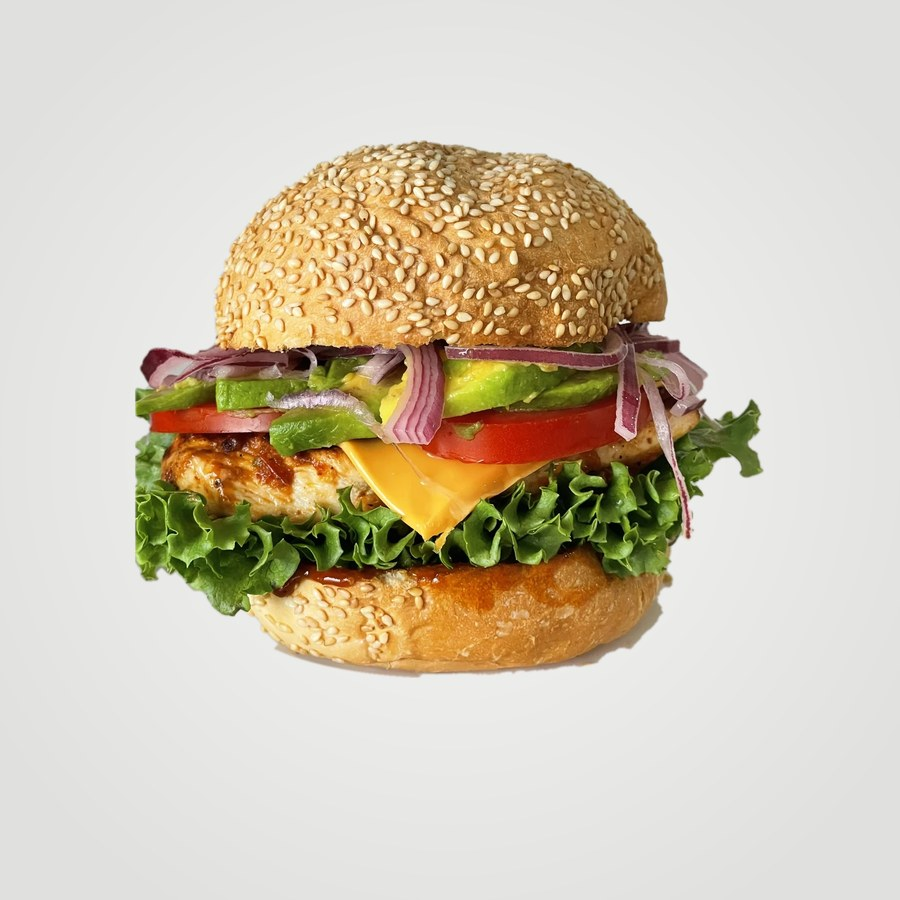
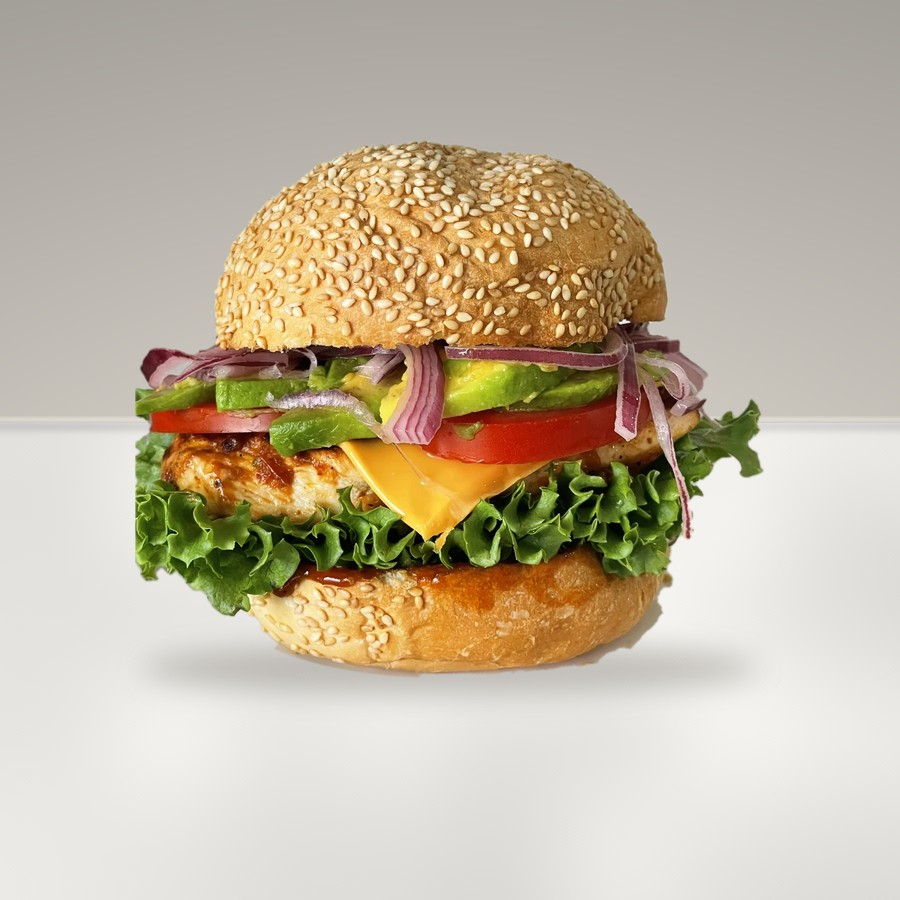
Gallery burger: white tablecloth backdrop with soft shadow

diff --git a/index.html b/index.html
@@ -176,7 +176,7 @@
    <div class="g-row">
     <figure class="g-item fit soft"><img src="img/gallery/lasagne.jpg" style="object-fit:contain" alt="Lasagne"></figure>
     <figure class="g-item"><img src="img/gallery/beef-ragout.jpg" alt="Beef Ragout"></figure>
-    <figure class="g-item nz"><img src="img/gallery/chicken-burger.jpg" alt="Chicken Burger"></figure>
+    <figure class="g-item nz"><img src="img/gallery/chicken-burger.jpg?v=2" alt="Chicken Burger"></figure>
    </div>
   </div>
 </section>
